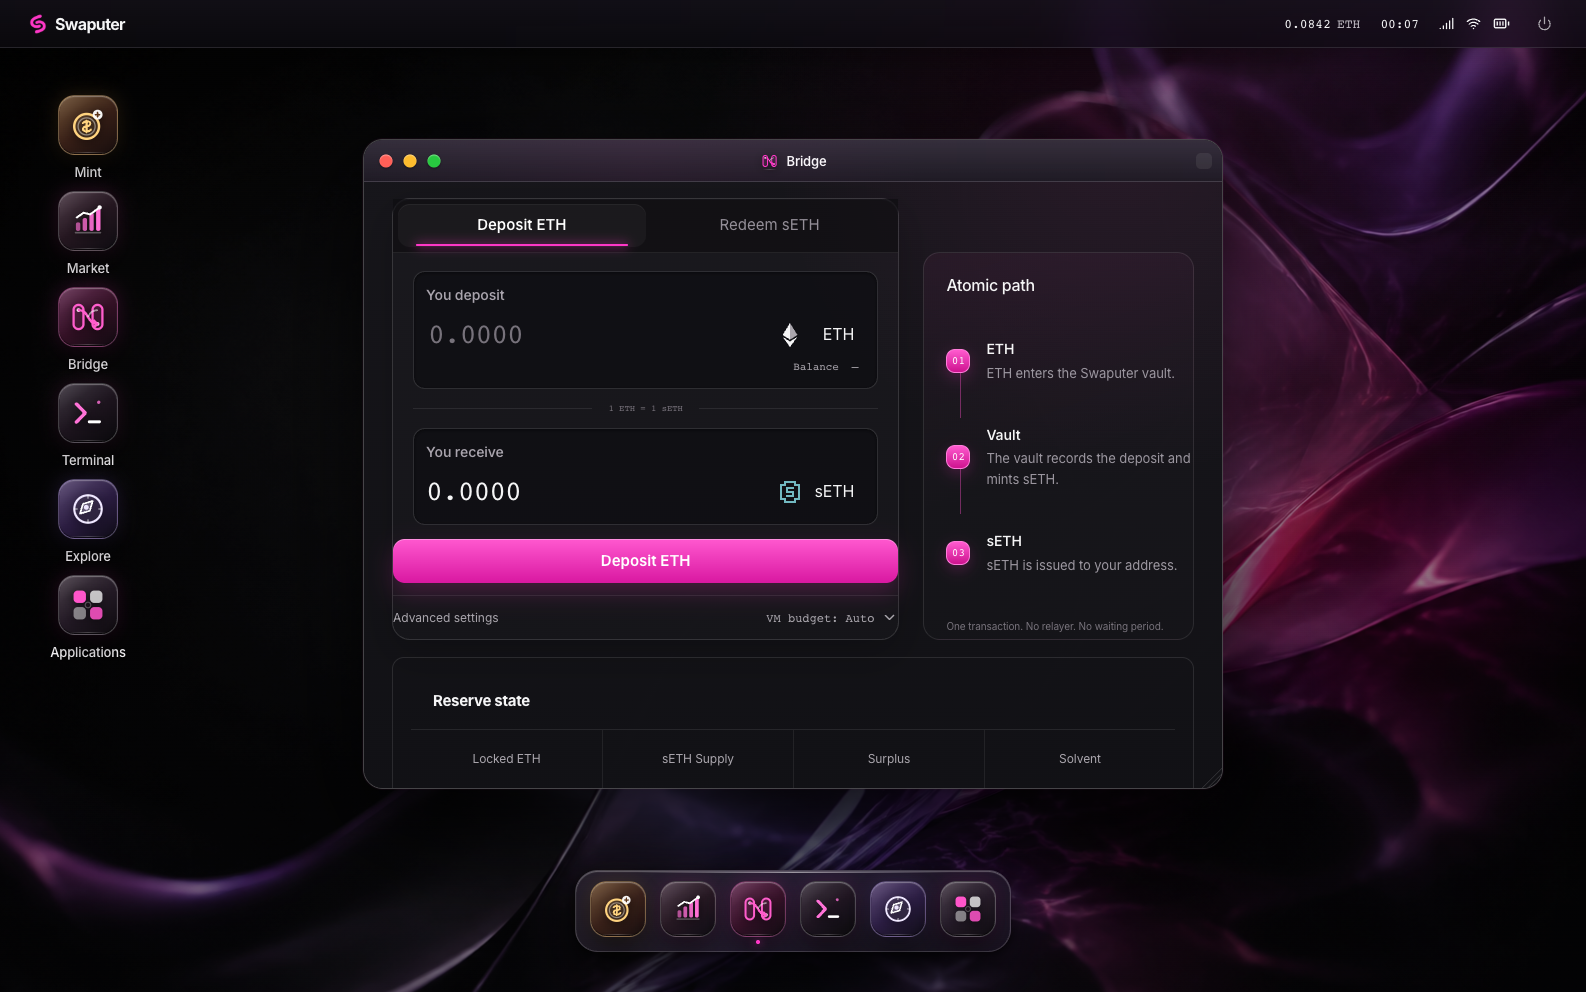
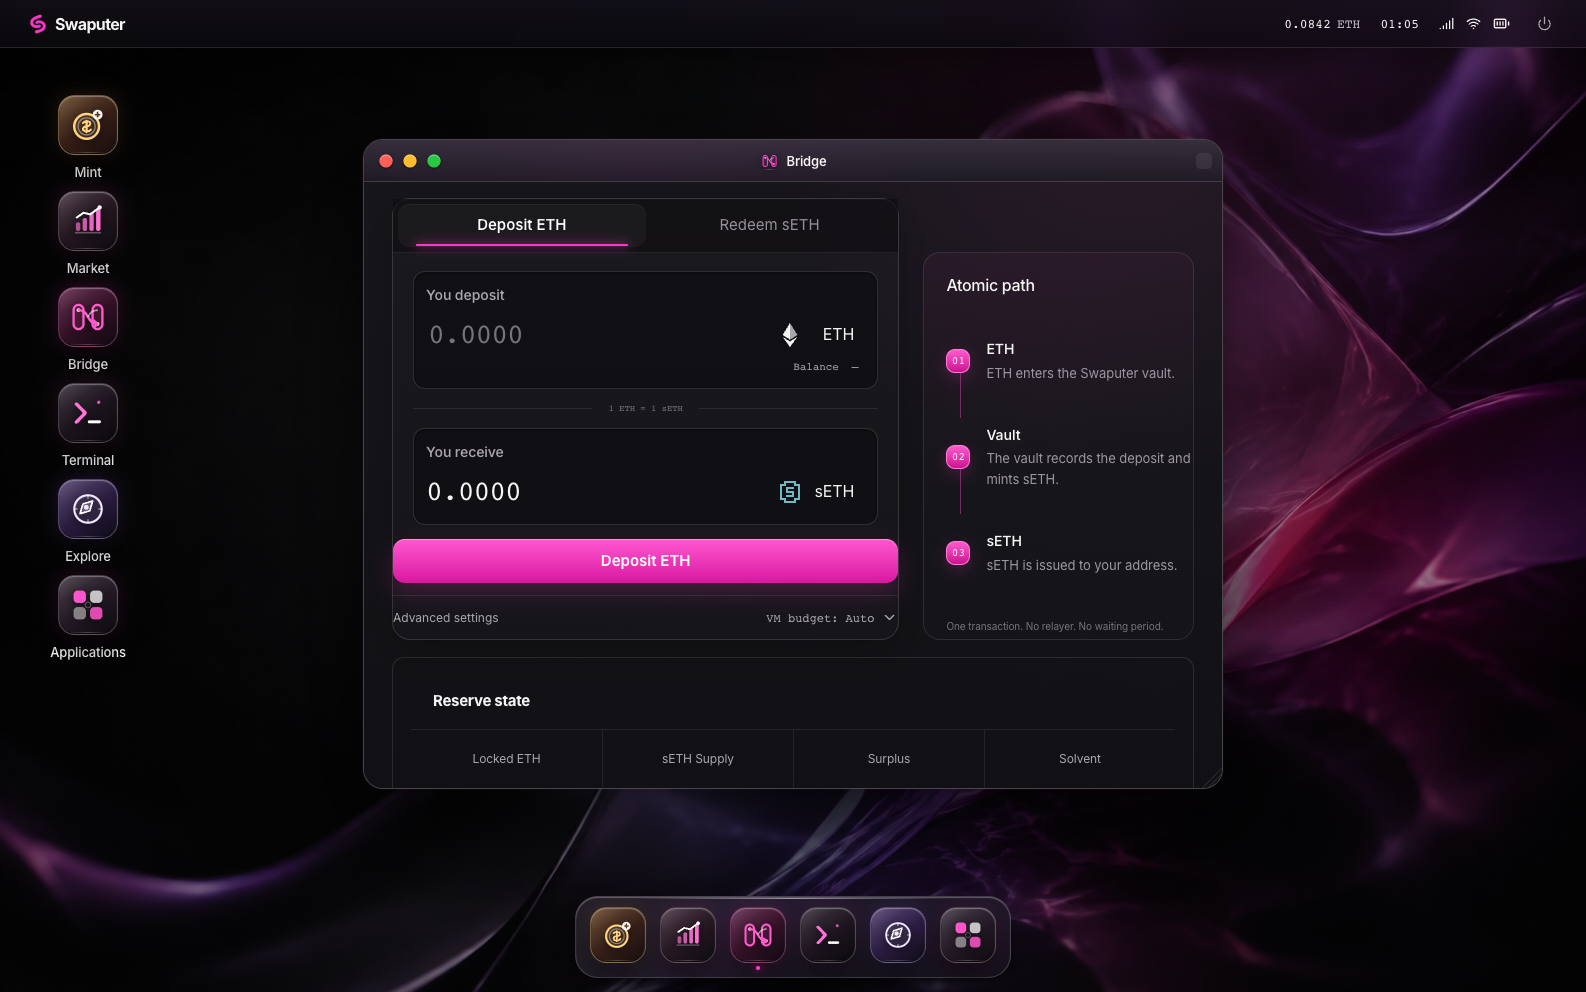
fix: lower desktop dock clearance

Changed region(s): [[0.3398, 0.875, 0.6488, 1.0]]

diff --git a/src/desktop.css b/src/desktop.css
@@ -421,7 +421,7 @@ button:focus-visible,a:focus-visible { outline-color:#ff7ada;outline-offset:3px;
 .os-desktop-app>span:last-child { color:#f7f5f8;font:520 13px var(--font-sans);letter-spacing:-.012em;padding:3px 7px;border-radius:7px;text-shadow:0 2px 7px #000,0 1px 1px #000; }
 .os-desktop-app:hover { background:#ffffff0a; }
 .os-desktop-app:hover>.os-icon { transform:translateY(-2px) scale(1.02);border-color:#ffffff50;box-shadow:0 18px 36px #000b,0 0 24px var(--icon-glow),inset 0 1px 1px #ffffff70,inset 0 -1px 1px #0009; }
-.os-dock { gap:14px;padding:10px 14px 14px;background:linear-gradient(145deg,#302938a8,#17141dbf);border:1px solid #ffffff2d;border-radius:23px;box-shadow:0 24px 54px #0009,0 2px 8px #0008,inset 0 1px 1px #ffffff4a;backdrop-filter:blur(34px) saturate(1.45);-webkit-backdrop-filter:blur(34px) saturate(1.45); }
+.os-dock { bottom:max(14px,env(safe-area-inset-bottom));gap:14px;padding:10px 14px 14px;background:linear-gradient(145deg,#302938a8,#17141dbf);border:1px solid #ffffff2d;border-radius:23px;box-shadow:0 24px 54px #0009,0 2px 8px #0008,inset 0 1px 1px #ffffff4a;backdrop-filter:blur(34px) saturate(1.45);-webkit-backdrop-filter:blur(34px) saturate(1.45); }
 .os-dock:before { content:'';position:absolute;inset:1px 14%;height:1px;background:linear-gradient(90deg,transparent,#ffffff8a,transparent); }
 .os-dock .os-icon { width:56px;height:56px;padding:8px; }
 .os-dock-divider { background:#ffffff24;box-shadow:none; }
@@ -430,7 +430,7 @@ button:focus-visible,a:focus-visible { outline-color:#ff7ada;outline-offset:3px;
 .os-dock-tooltip { color:#fff;background:#211d27df;border:1px solid #ffffff2b;border-radius:9px;box-shadow:0 10px 25px #0008;backdrop-filter:blur(20px);font:500 11px var(--font-sans); }
 .os-window { border:1px solid #ffffff29;border-radius:20px;background:#151419ed;box-shadow:0 28px 74px #000a,0 2px 9px #0008,inset 0 1px 0 #ffffff1d; }
 .os-window.is-active { border-color:#ffffff35;box-shadow:0 34px 90px #000c,0 0 0 1px #ff37c70e,inset 0 1px 0 #ffffff25; }
-.os-window.is-maximized { border-radius:18px; }
+.os-window.is-maximized { bottom:112px;border-radius:18px; }
 .os-window-titlebar { height:42px;min-height:42px;padding-inline:10px;background:linear-gradient(180deg,#332b3bc9,#211c27cf);border-bottom:1px solid #ffffff1a;backdrop-filter:blur(30px) saturate(1.45);-webkit-backdrop-filter:blur(30px) saturate(1.45); }
 .os-window-titlebar:before { inset:0;background:linear-gradient(90deg,transparent,#ff37c713,transparent 65%),linear-gradient(180deg,#ffffff13,transparent);mask-image:none;opacity:1; }
 .os-window-controls { gap:0;background:none;padding-right:5px; }

diff --git a/test/browser/computer.spec.ts b/test/browser/computer.spec.ts
@@ -228,6 +228,8 @@ test('desktop launcher stays inside short viewports without page scrolling or Do
     await boot(page);
     const desktop = (await page.locator('.os-desktop').boundingBox())!;
     const dock = (await page.getByRole('navigation', { name: 'Application dock' }).boundingBox())!;
+    expect(viewport.height - (dock.y + dock.height)).toBeGreaterThanOrEqual(13);
+    expect(viewport.height - (dock.y + dock.height)).toBeLessThanOrEqual(15);
     const icons = await page.locator('.os-desktop-app').evaluateAll(elements => elements.map(element => {
       const box = element.getBoundingClientRect();
       return { top: box.top, bottom: box.bottom, right: box.right };
@@ -242,6 +244,11 @@ test('desktop launcher stays inside short viewports without page scrolling or Do
     }));
     expect(pageSize.width).toBe(pageSize.clientWidth);
     expect(pageSize.height).toBe(pageSize.clientHeight);
+    await page.emulateMedia({ reducedMotion: 'reduce' });
+    await page.getByRole('button', { name: 'Open Mint', exact: true }).click();
+    const frame = (await page.getByRole('region', { name: 'Mint app', exact: true }).boundingBox())!;
+    expect(dock.y - (frame.y + frame.height)).toBeGreaterThanOrEqual(12);
+    await page.getByRole('region', { name: 'Mint app', exact: true }).getByRole('button', { name: 'Close app', exact: true }).click();
     await page.screenshot({ path: info.outputPath(`desktop-${viewport.width}x${viewport.height}.png`) });
     await page.evaluate(() => (window as any).__walletEvent('accountsChanged', []));
   }

diff --git a/docs/tahoe-glass-design.md b/docs/tahoe-glass-design.md
@@ -40,6 +40,7 @@ The canonical brand mark is the exact `swaputer-mark.png` used by `explorer/apps
 
 - Menu bar, Dock, window chrome, wallet popover, application library, and confirmation dialogs use translucent dark glass with a restrained blur and a bright top-edge highlight.
 - Desktop app windows open centered within the usable area between the menu bar and Dock. Reopening an app restores this centered default rather than retaining a stale dragged position.
+- The desktop Dock sits 14px above the bottom safe area. Even at the supported short desktop viewport, an app window retains at least 12px of clear space above the Dock.
 - Window traffic lights retain a compact 13×13 visual dot while exposing a 24×24 pointer target. Pointer events stay local to each control so close, minimize, and maximize do not also trigger window dragging or focus handling.
 - Application content uses opaque or near-opaque graphite surfaces for contrast and transaction safety.
 - Corners are continuous and rounded; shadows are soft and layered rather than offset pixel blocks.
